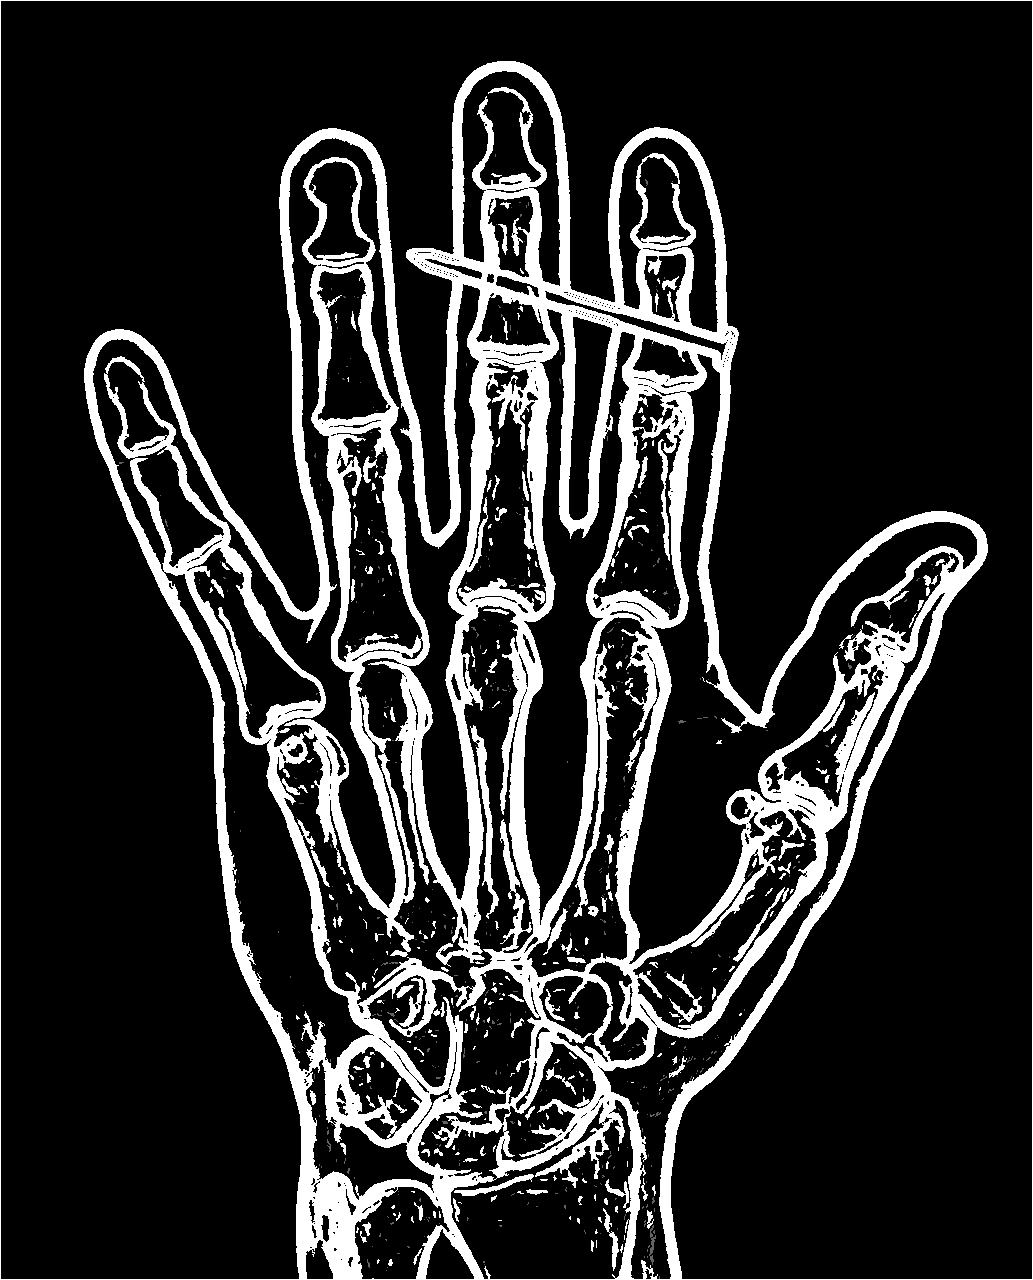
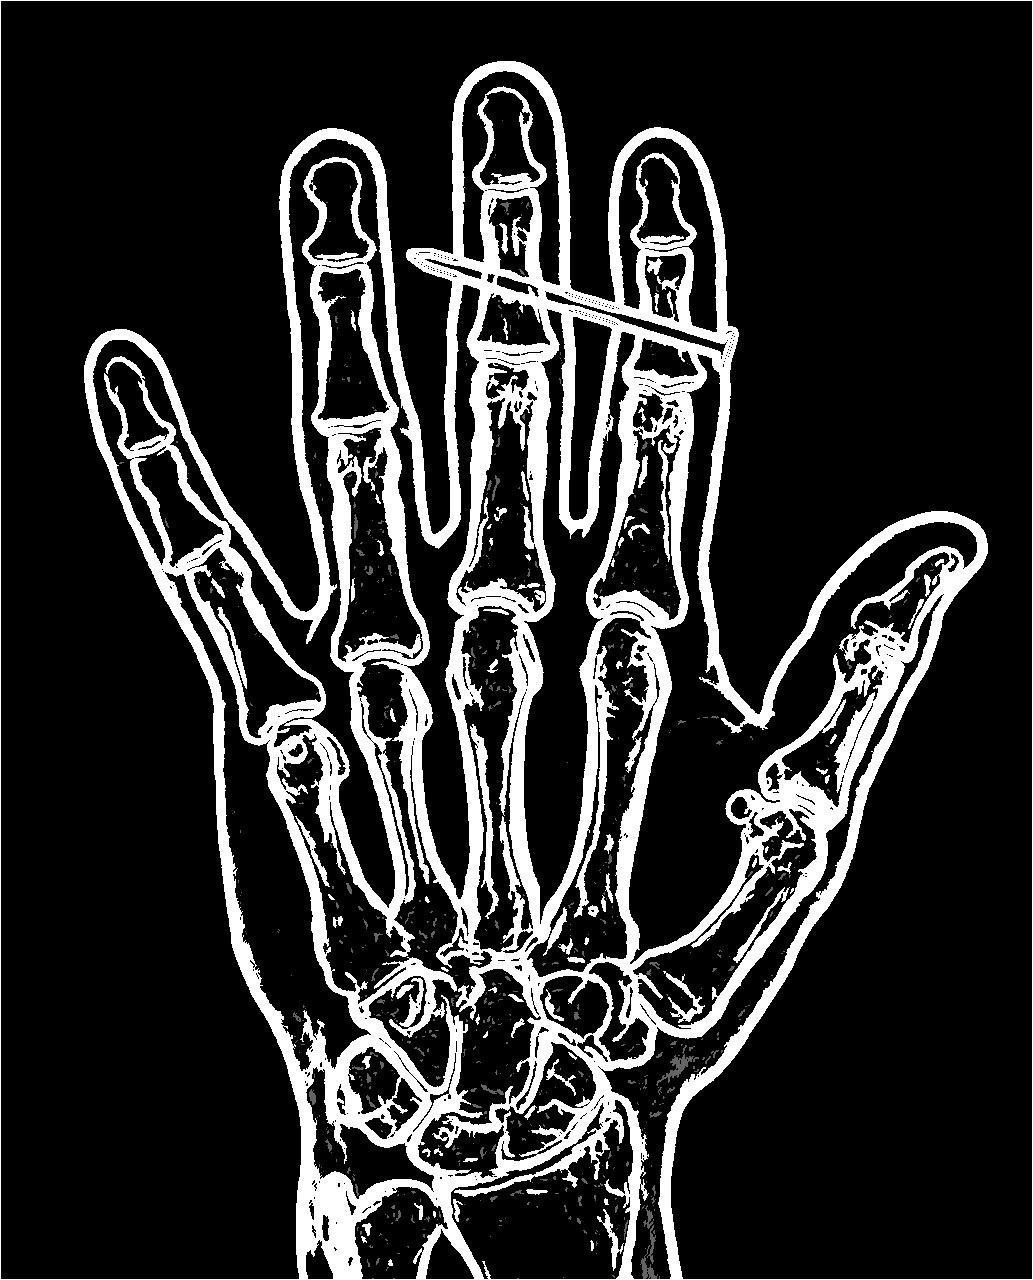
1
1

diff --git a/GOODPROJECT/main.c b/GOODPROJECT/main.c
@@ -284,8 +284,8 @@ int main(){
     unsigned error=lodepng_decode32_file(&image, &w, &h, filename);
     unsigned char* bw_image=convert_to_grayscale(image,4*w*h);
     unsigned char* blurred_image=malloc(4*w*h*sizeof(unsigned char));
-    gaussianBlur(bw_image, blurred_image,4,2,w,h);
-    detectorCanny(blurred_image,w,h,17,15);
+    gaussianBlur(bw_image, blurred_image,4,2.1,w,h);
+    detectorCanny(blurred_image,w,h,20,14);
 //    applySobelOperator(bw_image,w,h);
 //    applyRobertsOperator(bw_image,w,h);
     unsigned error1=lodepng_encode32_file("output1.png",blurred_image, w, h);
@@ -293,7 +293,7 @@ int main(){
     struct Set* sets=malloc(V*sizeof(Set));
     for (int i=0;i<V;i++) Make_Set(sets,i);
     unsigned char* image1=calloc(4*w*h,sizeof(unsigned char));
-    unsigned char delta=2;
+    unsigned char delta=13;
     unsigned char R=0;
     unsigned char G=0;
     unsigned char B=0;
